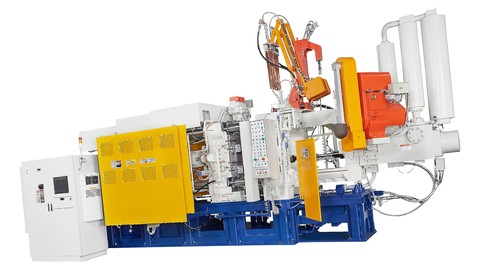
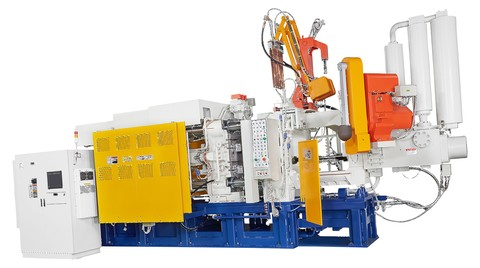
Nudge ZDC-730 clockwise slightly for visual leveling.

Changed region(s): [[0.0, 0.0299, 1.0, 0.9851]]

diff --git a/index.html b/index.html
@@ -140,6 +140,6 @@
     </div>
   </aside>
 
-  <script type="module" src="./js/lobby.js?v=hall250720g"></script>
+  <script type="module" src="./js/lobby.js?v=hall250720h"></script>
 </body>
 </html>

diff --git a/js/lobby.js b/js/lobby.js
@@ -15,7 +15,7 @@ import {
   buildMachineMarkers,
 } from './machine-panel.js?v=hall250716a';
 
-const MEDIA_VERSION = 'hall250720g';
+const MEDIA_VERSION = 'hall250720h';
 // 媒體快取版本：更換背景圖或縮圖後調高此值即可強制瀏覽器重新載入
 
 function mediaUrl(folder, file) {